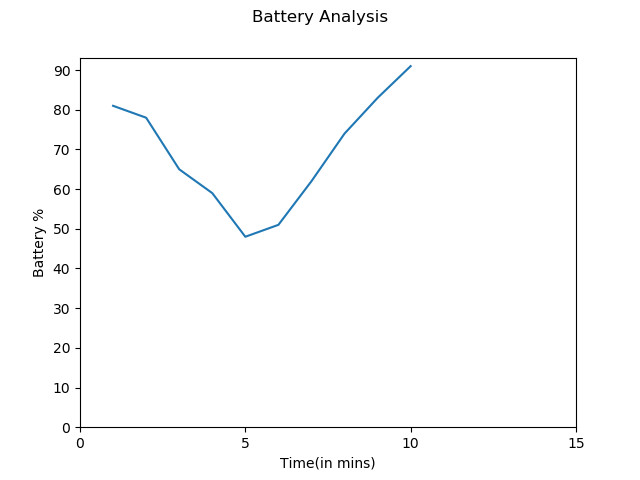
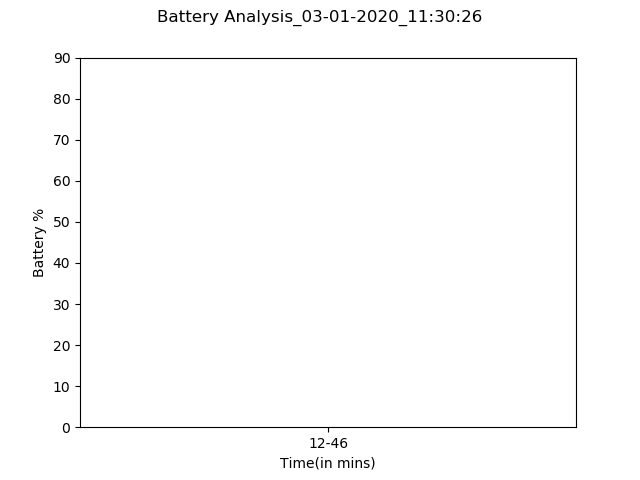
1578040332.2269294

diff --git a/GERRIT/DEV/Automation/battery_monitor.py b/GERRIT/DEV/Automation/battery_monitor.py
@@ -1,6 +1,7 @@
 import psutil
 import pyttsx3
 import time
+import os
 import matplotlib.pyplot as plt
 
 battery = psutil.sensors_battery()
@@ -8,6 +9,7 @@ battery_level = str(battery.percent)
 
 engine = pyttsx3.init()
 
+engine.say("Battery Monitor Activated")
 
 if int(battery_level) >= 20:
 	engine.say("Battery levels are fine. Running at" + battery_level + "Percent")
@@ -20,14 +22,43 @@ battery_power_plugged_in_event_noted = False
 battery_power_plugged_out_event_noted = False
 
 def plot_charge_discharge_data(charge_discharge_data):
+
 	plt.plot(charge_discharge_data.keys(),charge_discharge_data.values())
+
 	plt.xlabel('Time(in mins)')
 	plt.ylabel('Battery %')
-	plt.suptitle('Battery Analysis')
-	plt.xticks(charge_discharge_data.keys())
+
+	
+	xtick_labels = [time.strftime('%H-%M',time.localtime(x)) for x,y in charge_discharge_data.items()]
+	x_ticks = list(charge_discharge_data.keys())
+	plt.xticks([x_ticks[i] for i in range(len(x_ticks)) if i%10 == 0],[xtick_labels[i] for i in range(len(xtick_labels)) if i%10 == 0]) # To reduce x axis scale
 	plt.yticks(range(0,100,10))
-	plt.savefig('plot.png')
-	os.startfile('plot.png')
+	
+	#	xy = list(np.linspace(0,len(x_ticks)-1,10).astype('int'))
+	#	plt.xticks([x_ticks[i] for i in xy],[dict_keys_2[i] for i in xy])
+	#	plt.yticks(range(0,100,10))
+	#	- Use the above in case of complications in dividing huge number of elements in above code 
+	#	- i.e in already existing code 1000 will be divided with 10 yields 100 values
+	#	- where as above commented code will make 1000 into 10 equal parts.. what ever the size of elems.. it will divid into 10 hence scale will be good 
+
+	
+	date = time.strftime("%d-%m-%Y")
+	time_of_day = time.strftime("%H_%M_%S")
+	
+	plt.suptitle('Battery Analysis_' + str(date) + '_' + str(time_of_day))
+	
+	#def convert_epoch_to_time(x):
+	#return time.strftime('%H-%M',time.localtime(x))
+
+	#dict_keys_2 = list(map(lambda x: time.strftime('%H-%M',time.localtime(x)),dict))
+	#print(dict_keys_2)
+
+	#dict_keys_3 = list(map(convert_epoch_to_time,dict))
+	#print(dict_keys_3)
+	
+	fig_name = 'Battery Analysis_' + str(date) + '_' + str(time_of_day) + '.png'
+	plt.savefig(fig_name)
+	os.startfile(fig_name)
 
 
 charge_discharge_data = {}

diff --git a/GERRIT/DEV/Automation/plot_data.py b/GERRIT/DEV/Automation/plot_data.py
@@ -1,13 +1,72 @@
 import matplotlib.pyplot as plt
 import os
+import time
+import random
+import numpy as np
 
-fig = plt.plot([1,2,3,4,5,6,7,8,9,10],[81,78,65,59,48,51,62,74,83,91])
+dict = {1577944305: 96, 1577944365: 94, 1577944425: 94, 1577944485.9137468: 94, 1577944545.9138036: 91, 1577944605.9146113: 91, 1577944665.9155207: 89, 1577944725.9164007: 89, 1577944785.917648: 89}
+#dict = {1577949399.3643787: 15}
+
+#[1,2,3,4,5,6,7,8,9,10],[81,78,65,59,48,51,62,74,83,91]
+
+date = time.strftime("%d-%m-%Y")
+time_of_day = time.strftime("%H_%M_%S")
+
+fig = plt.plot(dict.keys(),dict.values())
 plt.xlabel('Time(in mins)')
 plt.ylabel('Battery %')
-plt.suptitle('Battery Analysis')
+plt.suptitle('Battery Analysis_' + str(date) + '_' + str(time_of_day))
+
 print(fig)
-plt.xticks(range(0,20,5))
+print(type(dict.keys()))
+
+
+def convert_epoch_to_time(x):
+	return time.strftime('%H-%M',time.localtime(x))
+
+dict_keys_1 = [time.strftime('%H.%M',time.localtime(x)) for x,y in dict.items()]
+print(dict_keys_1)
+
+
+dict_keys_2 = list(map(lambda x: time.strftime('%H-%M',time.localtime(x)),dict))
+print(dict_keys_2)
+
+dict_keys_3 = list(map(convert_epoch_to_time,dict))
+print(dict_keys_3)
+
+print(type(dict_keys_1))
+
+
+
+
+x_ticks = list(dict.keys())
+
+#plt.xticks([x_ticks[i] for i in range(len(x_ticks)) if i%2 == 0],[dict_keys_2[i] for i in range(len(dict_keys_2)) if i%2 == 0])
+#plt.xticks(list(range(len(dict_keys_2))),[dict_keys_2[i] for i in range(len(dict_keys_2)) if i%2 == 0])
+xy = list(np.linspace(0,len(x_ticks)-1,10).astype('int'))
+print(xy)
+print(len(x_ticks))
+
+#print(list(np.linspace(0,len(x_ticks)-1,10)))
+plt.xticks([x_ticks[i] for i in xy],[dict_keys_2[i] for i in xy])
 plt.yticks(range(0,100,10))
 
-plt.savefig('plot.png')
-os.startfile('plot.png')
+
+print(date)
+print(time_of_day)
+
+
+abc = [random.randint(10,100) for i in range(50)]
+
+defg = [abc[i] for i in range(len(abc)) if i%10 == 0]
+
+print(abc)
+print(defg)
+
+
+
+
+fig_name = 'Battery Analysis_' + str(date) + '_' + str(time_of_day) + '.png'
+
+plt.savefig(fig_name)
+os.startfile(fig_name)

diff --git a/GERRIT/DEV/Automation/alexa.py b/GERRIT/DEV/Automation/alexa.py
@@ -70,9 +70,28 @@ def plot_a_graph():
 	plt.savefig("graph.png",bbox_inches='tight')
 	os.startfile("graph.png")
 	
+def activate_key_logger():
+	os.startfile(r"C:\Users\Praneeth Alaghari\python_repo\GERRIT\DEV\Automation\keylogger.bat")
+	return
 	
-			
+def shut_down(source):
+	engine.say('Do you want me to shut down the PC?')
+	proceed = interact(source)
+	if proceed in ['yes','Yes','s','S']:
+		os.system("shutdown /s /t 1")
+		sys.exit(0)
+	else:
+		return
 
+def restart(source):
+	engine.say('Do you want me to restart the PC?')
+	proceed = interact(source)
+	if proceed in ['yes','Yes','s','S']:
+		os.system("shutdown /r /t 1")
+		sys.exit(0)
+	else:
+		return
+		
 def google_search(source):
 	engine.say("Ok.. what do you want to search for ?")
 	search_string = interact(source)
@@ -146,7 +165,7 @@ def run(r):
 					weather_report.run()
 					change_voice()
 					
-				elif command in ['activate Battery Monitor','battery status']:
+				elif command in ['activate Battery Monitor','battery status','Battery Monitor']:
 					engine.say("Ok.. Activating battery monitor..")
 					activate_battery_monitor()
 				
@@ -160,10 +179,16 @@ def run(r):
 					engine.say("Sure.. Activating score update..")
 					match_score_updates()
 				
-				elif command in ['plot a graph']:
-					engine.say("Plotting a graph")
-					plot_a_graph()
-				
+				elif command in ['activate keylogger','keylogger']:
+					engine.say("Activating Keylogger")
+					activate_key_logger()
+					
+				elif command in ['shutdown','restart']:
+					if command == 'shutdown':
+						shut_down(source)
+					if command == 'restart':
+						restart(source)
+					
 				elif command in ['bye','good bye','get lost','see you','nothing','goodbye','good night','enough']:
 					engine.say(random.choice(leaving_strings))
 					break

diff --git a/GERRIT/DEV/Automation/start_alexa.py b/GERRIT/DEV/Automation/start_alexa.py
@@ -5,6 +5,10 @@ import time
 import winsound
 
 
+class unrecognizable_event(Exception):
+	pass
+
+
 sample_rate = 48000
 chunk_size	= 2048
 microphone_list = sr.Microphone.list_microphone_names()
@@ -19,9 +23,11 @@ def listen_func(source):
 	audio = r.listen(source)
 	try:
 		recognized_audio = r.recognize_google(audio)
+		print('Recognized audio is ' + recognized_audio)
 		return recognized_audio
 	except:
-		listen_func(source)
+		return
+		
 	
 
 def run():
@@ -30,10 +36,13 @@ def run():
 			print("Loop")
 			r.adjust_for_ambient_noise(source)
 			command = listen_func(source)
-			print(command)
-			if command in ["start Alexa",'Alexa']:
-				os.startfile(r'C:\Users\Praneeth Alaghari\python_repo\GERRIT\DEV\Automation\alexa.bat')
-				time.sleep(20)
+			if command == None:
+				continue
+			else:
+				print("Command to execute :" + command)
+				if command in ["start Alexa",'Alexa']:
+					os.startfile(r'C:\Users\Praneeth Alaghari\python_repo\GERRIT\DEV\Automation\alexa.bat')
+					time.sleep(20)
 		
 		
 if __name__ == '__main__':

diff --git a/GERRIT/DEV/Automation/google_search.py b/GERRIT/DEV/Automation/google_search.py
@@ -1,0 +1,53 @@
+from bs4 import BeautifulSoup 
+import webbrowser
+import requests
+import json
+import re
+
+
+google_url = 'https://google.com/search?q='
+to_search = 'water'
+url = google_url + to_search
+data = requests.get(url)
+
+soup = BeautifulSoup(data.text,"lxml")
+
+#print(soup.prettify())
+
+class_retrieve = soup.find_all('div',attrs={'class' : 'rc'})
+print(class_retrieve)
+#class_retrieve = soup.find_all('div')
+#for a in class_retrieve:
+#	print(a.class_)
+
+#print(class_retrieve)
+#print(class_retrieve)
+
+#for a in class_retrieve:
+#	anchors = a.find_all('a')
+	#print(anchors)
+#	for i in anchors:
+#		pass
+		#print(i.get('href'))
+
+#anchors = soup.find_all('a', class_ = '')
+#print(anchors)
+
+#for i in anchors:
+#	print(i.get('href'))
+#	print(i.get('class'))
+
+
+
+'''
+google_url = 'www.google.com'
+to_search = ''
+
+url = google_url + to_search 
+#webbrowser.open(url)
+#print(url)
+data = requests.get(url)
+
+print(data)
+
+'''

diff --git a/GERRIT/DEV/Automation/keylogger.py b/GERRIT/DEV/Automation/keylogger.py
@@ -1,0 +1,25 @@
+from pynput.keyboard import Key, Listener
+import time
+
+def write_to_file(key):
+	with open('key_logger_' + time.strftime('%d-%m-%Y') +'.txt','a') as fh:
+		fh.write(key)
+
+def on_key_press(key):
+	key_input = str(key)
+	
+	if not key_input.startswith('Key') or not key_input.find('\\x'):
+		write_to_file(key_input.replace("'",''))
+	if key_input == 'Key.space':
+		write_to_file(' ')
+	if key_input == 'Key.enter':
+		write_to_file('\n')
+	if key_input == 'Key.tab':
+		write_to_file('\t')
+
+def on_key_release(key):
+	if key == Key.esc:
+		return False
+
+with Listener(on_press=on_key_press, on_release=on_key_release) as listener:
+	listener.join()

diff --git a/GERRIT/DEV/Automation/weather_report.py b/GERRIT/DEV/Automation/weather_report.py
@@ -18,7 +18,6 @@ def run():
 	else: engine.setProperty('voice','HKEY_LOCAL_MACHINE\SOFTWARE\Microsoft\Speech\Voices\Tokens\TTS_MS_EN-US_DAVID_11.0')
 	
 	
-	
 	# Weather 
 	url = "http://api.openweathermap.org/data/2.5/weather?appid=fa2536ab2699a5077d09902716acddc2&q="
 	city = 'Hyderabad'
